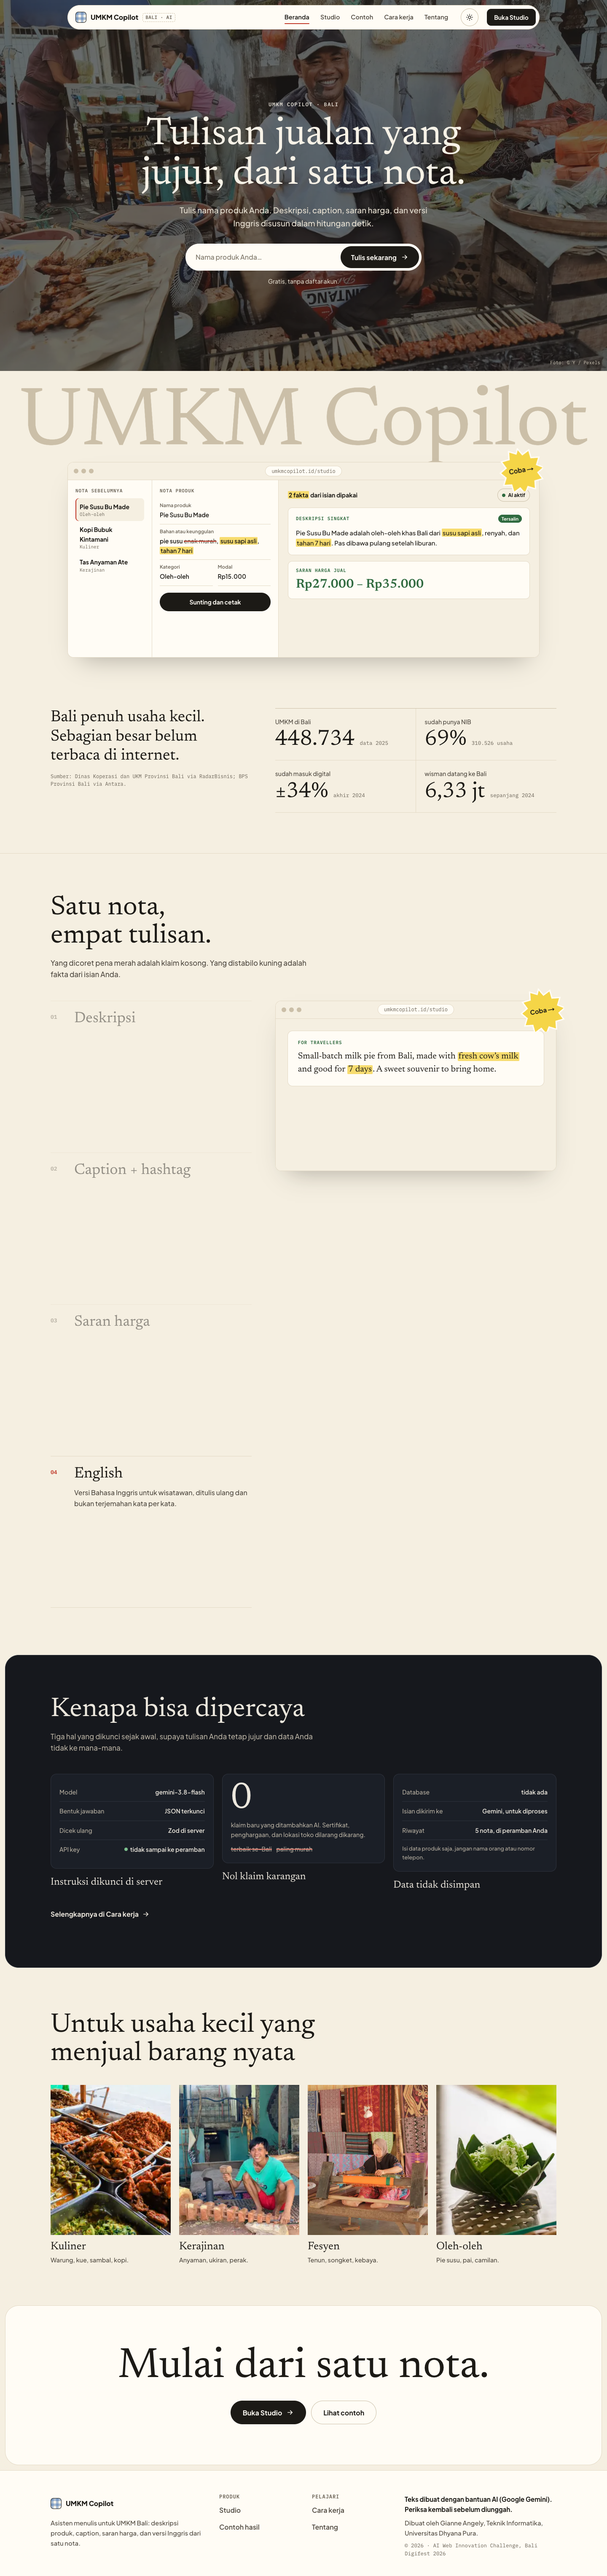
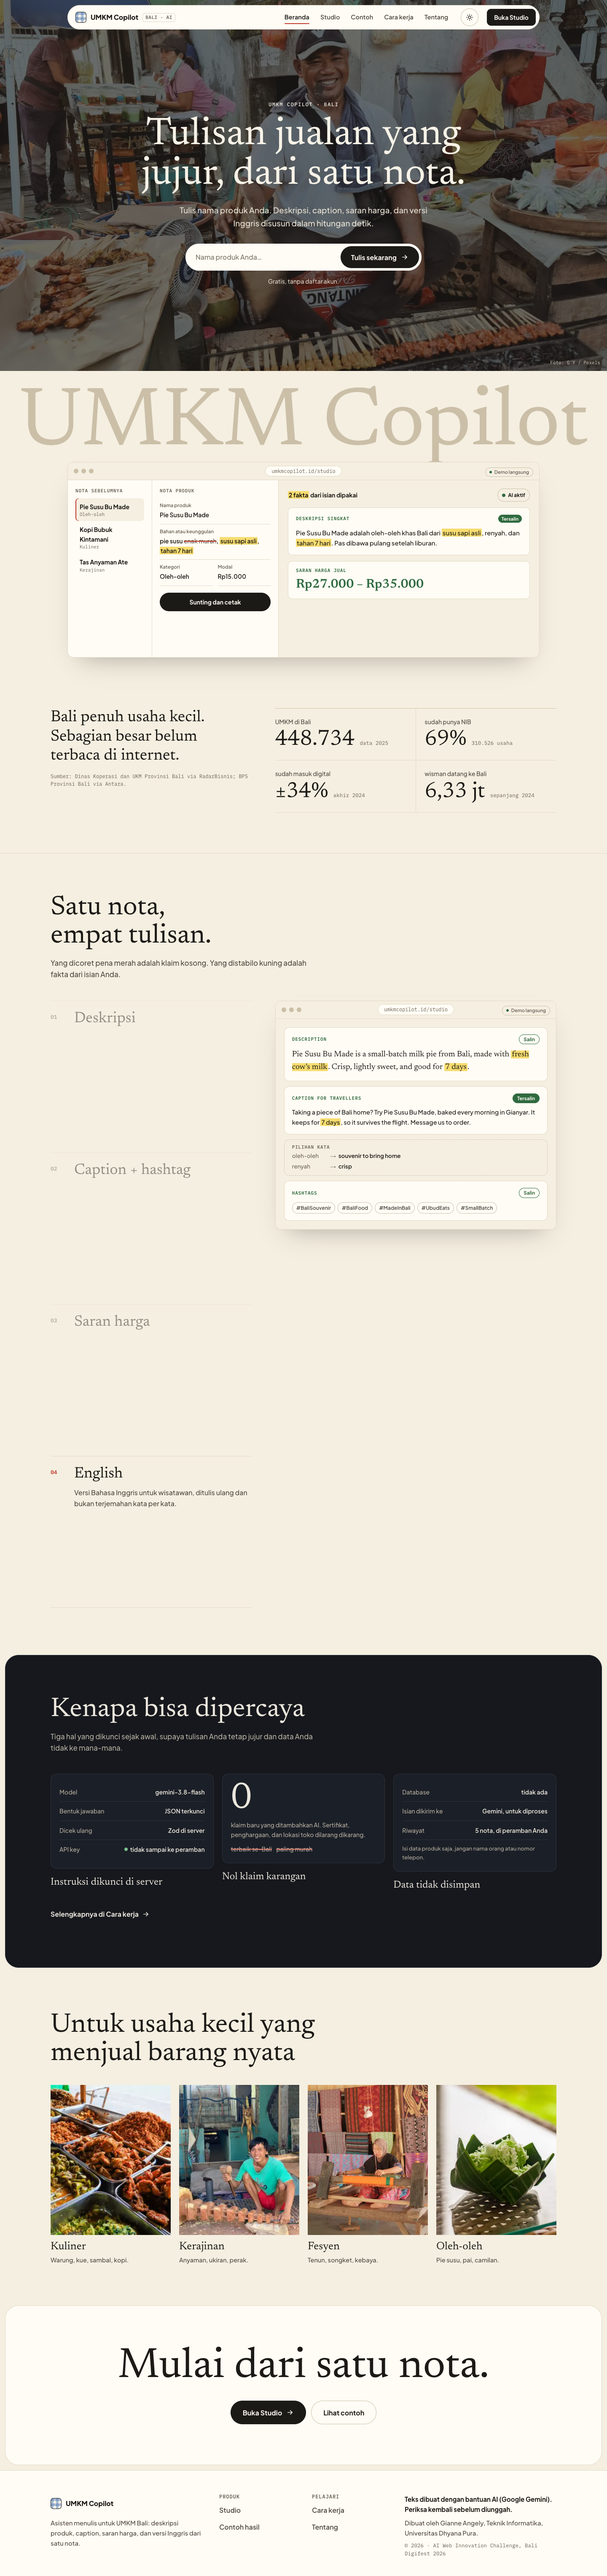
Beranda: buang stiker burst, isi jendela cerita dengan layar hasil utuh
- Stiker Coba dihapus; jendela produk diberi pil kecil Demo langsung di bar judul
- Empat state jendela sticky: dua versi deskripsi, pratinjau postingan Instagram, harga dengan rumus modal x margin dan perbandingan lokal/wisatawan, dua blok English plus pilihan kata dan hashtag
- Tinggi jendela mengikuti state terpanjang sehingga tidak ada area kosong
- Selector daftar cerita dibatasi ke anak langsung supaya chip hashtag di HP tidak ikut bergaya item

Changed region(s): [[0.4688, 0.3731, 0.9375, 0.4975], [0.8125, 0.1555, 0.9062, 0.2176]]

diff --git a/app/globals.css b/app/globals.css
@@ -620,21 +620,17 @@ ul.riwayat .riwayat-nama { width: 100%; }
 .b-pamer-jendela { position: relative; max-width: 1120px; margin: clamp(56px, 10vw, 150px) auto 0; }
 .b-pamer-jendela[data-reveal="siap"] { opacity: 1; transform: scale(0.94) translateY(30px); }
 .b-pamer-jendela[data-reveal="tampil"] { transform: none; transition: transform 0.9s var(--ease); }
-.b-pamer-jendela .stiker { position: absolute; right: -8px; top: -34px; }
 
 .jendela { position: relative; background: var(--putih); border: 1px solid var(--garis); border-radius: 14px; box-shadow: var(--bayang-jendela); overflow: hidden; }
-.jendela-bar { display: grid; grid-template-columns: 80px 1fr 80px; align-items: center; height: 42px; padding: 0 14px; border-bottom: 1px solid var(--garis); background: var(--kertas); }
+.jendela-bar { display: grid; grid-template-columns: 120px 1fr 120px; align-items: center; height: 42px; padding: 0 14px; border-bottom: 1px solid var(--garis); background: var(--kertas); }
 .jendela-titik { display: flex; gap: 7px; }
+.jendela-ruang { justify-self: end; }
+.jendela-demo { display: inline-flex; align-items: center; gap: 6px; padding: 3px 9px; border: 1px solid var(--garis-2); border-radius: 99px; font: 500 11px/1.3 var(--sans); color: var(--tinta-2); white-space: nowrap; }
+.jendela-demo i { width: 6px; height: 6px; border-radius: 50%; background: var(--hijau); }
 .jendela-titik i { width: 11px; height: 11px; border-radius: 50%; background: var(--garis-2); }
 .jendela-alamat { justify-self: center; padding: 4px 14px; border-radius: 99px; background: var(--putih); border: 1px solid var(--garis); font: 500 12px/1.3 var(--mono); color: var(--tinta-3); white-space: nowrap; overflow: hidden; text-overflow: ellipsis; max-width: 100%; }
 .jendela-isi { position: relative; }
 
-.stiker { position: absolute; z-index: 3; display: grid; place-items: center; width: 104px; height: 104px; color: #1c1a16; transform: rotate(-10deg); transition: transform 0.3s var(--ease); }
-.stiker svg { position: absolute; inset: 0; width: 100%; height: 100%; fill: var(--kuning); stroke: #fffcf5; stroke-width: 3; }
-.stiker span { position: relative; font: 700 15px/1 var(--sans); }
-.stiker:hover { transform: rotate(-4deg) scale(1.05); }
-@media (prefers-reduced-motion: no-preference) { .stiker svg { animation: putar 18s linear infinite; } }
-@keyframes putar { to { transform: rotate(360deg); } }
 
 .layar { display: grid; grid-template-columns: 200px 300px minmax(0, 1fr); min-height: 420px; font-size: 14px; }
 .layar-samping, .layar-nota { padding: 20px 18px; border-right: 1px solid var(--garis); }
@@ -679,36 +675,87 @@ ul.riwayat .riwayat-nama { width: 100%; }
 .cerita { margin-top: 48px; display: grid; gap: 40px; align-items: start; }
 @media (min-width: 960px) { .cerita { grid-template-columns: 5fr 7fr; gap: 56px; } }
 .cerita-daftar { list-style: none; margin: 0; padding: 0; }
-.cerita-daftar li { display: grid; grid-template-columns: 44px 1fr; gap: 12px; padding: 22px 0; border-top: 1px solid var(--garis); }
-.cerita-daftar li:last-child { border-bottom: 1px solid var(--garis); }
+.cerita-daftar > li { display: grid; grid-template-columns: 44px 1fr; gap: 12px; padding: 22px 0; border-top: 1px solid var(--garis); }
+.cerita-daftar > li:last-child { border-bottom: 1px solid var(--garis); }
 .cerita-no { font: 600 13px/2.4 var(--mono); color: var(--tinta-3); }
 .cerita-daftar h3 { font: 400 clamp(26px, 2.6vw, 36px)/1.15 var(--serif); }
 .cerita-teks { margin-top: 10px; color: var(--tinta-2); max-width: 30em; }
 .cerita-panel-hp { margin-top: 18px; }
 .cerita-kanan { display: none; }
 @media (min-width: 960px) {
-  .cerita-daftar li { min-height: 40vh; align-content: start; transition: opacity 0.3s; opacity: 0.45; }
-  .cerita-daftar li.aktif { opacity: 1; }
-  .cerita-daftar li.aktif .cerita-no { color: var(--merah); }
-  .cerita-daftar li:not(.aktif) .cerita-teks { visibility: hidden; }
+  .cerita-daftar > li { min-height: 40vh; align-content: start; transition: opacity 0.3s; opacity: 0.45; }
+  .cerita-daftar > li.aktif { opacity: 1; }
+  .cerita-daftar > li.aktif .cerita-no { color: var(--merah); }
+  .cerita-daftar > li:not(.aktif) .cerita-teks { visibility: hidden; }
   .cerita-panel-hp { display: none; }
-  .cerita-kanan { display: block; position: sticky; top: 120px; }
-  .cerita-kanan .stiker { right: -18px; top: -30px; }
+  .cerita-kanan { display: block; position: sticky; top: 104px; }
 }
-.panel-tumpuk { display: grid; padding: 28px; min-height: 360px; background: var(--kertas); }
-.panel-tumpuk .panel { grid-area: 1 / 1; opacity: 0; transform: translateY(10px); transition: opacity 0.4s var(--ease), transform 0.4s var(--ease); }
+.panel-tumpuk { display: grid; padding: 20px; background: var(--kertas); }
+.panel-tumpuk .panel { grid-area: 1 / 1; align-self: stretch; opacity: 0; transform: translateY(10px); transition: opacity 0.4s var(--ease), transform 0.4s var(--ease); }
 .panel-tumpuk .panel.aktif { opacity: 1; transform: none; }
-.panel { padding: 22px 24px; background: var(--putih); border: 1px solid var(--garis); border-radius: 12px; align-self: start; }
-.panel-draf { margin-bottom: 20px; padding-bottom: 18px; border-bottom: 1px dashed var(--garis-2); font-size: 16px; color: var(--tinta-2); }
-.panel-jadi { font: 400 21px/1.5 var(--serif); }
-.panel-jadi.kecil { font-size: 17px; margin-top: 10px; }
-.panel-chip { list-style: none; margin: 16px 0 0; padding: 0; display: flex; flex-wrap: wrap; gap: 6px; }
-.panel-chip li { padding: 3px 10px; border: 1px solid var(--garis-2); border-radius: 99px; font-size: 13px; font-weight: 600; color: var(--tinta-2); }
-.panel-harga { font: 500 clamp(36px, 4vw, 52px)/1.05 var(--serif); color: var(--hijau); font-variant-numeric: tabular-nums; }
-.panel-bar { display: flex; margin-top: 18px; height: 34px; border-radius: 8px; overflow: hidden; font: 600 11px/34px var(--mono); }
-.panel-bar span { width: var(--w); padding-left: 10px; }
-.panel-bar span:first-child { background: var(--garis); color: var(--tinta-2); }
-.panel-bar span:last-child { background: var(--hijau); color: var(--putih); }
+.panel { height: 100%; min-width: 0; }
+.cerita-panel-hp .panel { height: auto; }
+
+/* Isi panel: layar hasil yang utuh */
+.p-layar { display: flex; flex-direction: column; gap: 12px; height: 100%; font-size: 14.5px; }
+.p-blok, .p-draf { padding: 16px 18px; background: var(--putih); border: 1px solid var(--garis); border-radius: 12px; }
+.p-layar > :last-child { flex: 1; }
+.p-draf { background: transparent; border-style: dashed; }
+.p-draf p { margin-top: 8px; color: var(--tinta-2); }
+.p-draf del, .p-layar del { text-decoration-color: var(--merah); text-decoration-thickness: 2px; color: var(--tinta-3); }
+.p-cap { font: 600 11px/1 var(--mono); letter-spacing: 0.08em; color: var(--tinta-3); }
+.p-kepala { display: flex; justify-content: space-between; align-items: center; margin-bottom: 10px; font: 600 11px/1 var(--mono); letter-spacing: 0.08em; color: var(--hijau); }
+.p-salin { padding: 5px 10px; border: 1px solid var(--hijau); border-radius: 99px; font: 700 11.5px/1 var(--sans); letter-spacing: 0; }
+.p-salin.ok { background: var(--hijau); color: var(--putih); }
+.p-serif { font: 400 19px/1.5 var(--serif); }
+.p-layar p { line-height: 1.6; }
+.p-kecil { margin-top: 4px; font-size: 13px; color: var(--tinta-3); }
+.p-meta { margin-top: 10px; font: 500 11.5px/1.4 var(--mono); color: var(--tinta-3); }
+.p-catat { padding: 0 4px; font: 500 12px/1.4 var(--mono); color: var(--tinta-3); }
+
+.p-ig-wrap { flex-direction: row; }
+.p-ig { flex: none; width: 46%; display: flex; flex-direction: column; background: var(--putih); border: 1px solid var(--garis); border-radius: 12px; overflow: hidden; }
+.p-ig-atas { display: flex; align-items: center; gap: 8px; padding: 10px 12px; font-weight: 700; font-size: 13px; }
+.p-ig-atas span { margin-left: auto; font: 500 11px var(--sans); color: var(--tinta-3); }
+.p-avatar { width: 26px; height: 26px; flex: none; border-radius: 50%; background: var(--hijau); box-shadow: 0 0 0 2px var(--putih), 0 0 0 3.5px var(--merah); }
+.p-ig-foto { position: relative; flex: 1; min-height: 0; }
+.p-ig-ikon { display: flex; gap: 10px; padding: 10px 12px; }
+.p-ig-ikon i { width: 18px; height: 18px; border: 1.8px solid var(--tinta-2); border-radius: 50%; }
+.p-ig-ikon i:last-child { margin-left: auto; border-radius: 3px; }
+.p-ig-teks { flex: 1; min-width: 0; display: flex; flex-direction: column; padding: 16px 18px; background: var(--putih); border: 1px solid var(--garis); border-radius: 12px; }
+.p-chip { list-style: none; margin: auto 0 0; padding: 14px 0 0; display: flex; flex-wrap: wrap; gap: 6px; }
+.p-chip li { padding: 3px 9px; border: 1px solid var(--garis-2); border-radius: 99px; font-size: 12px; font-weight: 600; color: var(--tinta-2); }
+
+.p-harga { font: 500 clamp(38px, 3.6vw, 52px)/1.05 var(--serif); color: var(--hijau); font-variant-numeric: tabular-nums; }
+.p-rumus { display: grid; grid-template-columns: 1fr auto 1fr auto 1.3fr; align-items: center; gap: 10px; padding: 14px 18px; background: var(--putih); border: 1px solid var(--garis); border-radius: 12px; }
+.p-rumus div { display: flex; flex-direction: column; gap: 6px; }
+.p-rumus b { font: 600 17px/1.2 var(--sans); font-variant-numeric: tabular-nums; white-space: nowrap; }
+.p-rumus b.hijau { color: var(--hijau); }
+.p-op { font: 400 24px/1 var(--serif); color: var(--tinta-3); }
+.p-chip-rapat { margin-top: 0; padding-top: 0; }
+.p-istilah { display: grid; gap: 6px; padding: 12px 18px; border: 1px dashed var(--garis-2); border-radius: 12px; }
+.p-istilah p { display: grid; grid-template-columns: 90px 20px 1fr; font-size: 13.5px; line-height: 1.4 !important; }
+.p-istilah span { color: var(--tinta-3); }
+.p-istilah i { font-style: normal; color: var(--tinta-3); }
+.p-istilah b { font-weight: 600; }
+.p-banding { display: grid; gap: 8px; padding: 14px 18px; background: var(--putih); border: 1px solid var(--garis); border-radius: 12px; }
+.p-banding p { display: grid; grid-template-columns: 104px 1fr 112px; align-items: center; gap: 12px; font-size: 13px; color: var(--tinta-3); line-height: 1.3 !important; }
+.p-banding i { position: relative; height: 8px; border-radius: 4px; background: var(--garis); }
+.p-banding i::after { content: ""; position: absolute; top: 0; bottom: 0; left: var(--a); right: calc(100% - var(--b)); border-radius: 4px; background: var(--tinta-3); }
+.p-banding b { text-align: right; font-weight: 600; font-variant-numeric: tabular-nums; }
+.p-banding .pilih { color: var(--tinta); }
+.p-banding .pilih i::after { background: var(--hijau); }
+.p-banding .pilih b { color: var(--hijau); }
+
+@media (max-width: 959px) {
+  .p-ig-wrap { flex-direction: column; }
+  .p-ig { width: 100%; }
+  .p-ig-foto { aspect-ratio: 4 / 3; flex: none; }
+  .p-rumus { grid-template-columns: 1fr auto 1fr; }
+  .p-rumus .p-op:nth-of-type(2), .p-rumus div:last-child { grid-column: 1 / -1; }
+  .p-rumus .p-op:nth-of-type(2) { display: none; }
+  .p-rumus div:last-child { padding-top: 10px; border-top: 1px dashed var(--garis-2); }
+}
 
 /* ---------- Bagian gelap (Mercury) ---------- */
 .b-gelap { margin: 0 12px; padding: 96px 0 104px; border-radius: 32px; background: var(--pekat); color: var(--pekat-teks); border: 1px solid var(--pekat-garis); }

diff --git a/app/components/CeritaSticky.js b/app/components/CeritaSticky.js
@@ -1,55 +1,121 @@
 "use client";
 
+import Image from "next/image";
 import { useEffect, useRef, useState } from "react";
-import { Jendela, Stiker } from "./Jendela";
+import { Jendela } from "./Jendela";
 
 // Kiri: daftar bernomor yang aktif mengikuti gulir. Kanan: jendela produk yang menempel
 // dan isinya berganti sesuai item aktif. Di HP, panel tampil di bawah tiap item.
+// Tiap panel adalah layar hasil yang utuh, dengan coretan merah dan stabilo dari isian.
+
+function Kepala({ judul, salin = "Salin" }) {
+  return (
+    <div className="p-kepala">
+      <span>{judul}</span>
+      <span className={salin === "Tersalin" ? "p-salin ok" : "p-salin"}>{salin}</span>
+    </div>
+  );
+}
 
 const ITEM = [
   {
     judul: "Deskripsi",
     teks: "Dua versi: singkat untuk marketplace, bercerita untuk Instagram. Klaim kosong dicoret pena merah.",
     panel: (
-      <>
-        <p className="layar-label">DRAF ANDA</p>
-        <p className="panel-draf">pie susu <del>enak murah</del>, <mark>susu sapi asli</mark>, <mark>tahan 7 hari</mark>, <del>pokoknya mantap</del></p>
-        <p className="layar-label hijau">DESKRIPSI SINGKAT</p>
-        <p className="panel-jadi">Pie Susu Bu Made adalah oleh-oleh khas Bali dari <mark>susu sapi asli</mark>, renyah, dan <mark>tahan 7 hari</mark>.</p>
-      </>
+      <div className="p-layar">
+        <div className="p-draf">
+          <span className="p-cap">DRAF ANDA</span>
+          <p>pie susu <del>enak murah</del>, <mark>susu sapi asli</mark>, <mark>tahan 7 hari</mark>, <del>pokoknya mantap</del></p>
+        </div>
+        <div className="p-blok">
+          <Kepala judul="DESKRIPSI SINGKAT" salin="Tersalin" />
+          <p className="p-serif">Pie Susu Bu Made adalah oleh-oleh khas Bali dari <mark>susu sapi asli</mark>, renyah, dan <mark>tahan 7 hari</mark>.</p>
+          <p className="p-meta">17 kata · pas untuk kolom deskripsi marketplace</p>
+        </div>
+        <div className="p-blok">
+          <Kepala judul="DESKRIPSI BERCERITA" />
+          <p>Setiap pagi di dapur kecil di Gianyar, Pie Susu Bu Made dipanggang sedikit demi sedikit. Adonannya memakai <mark>susu sapi asli</mark>, jadi rasanya lembut tanpa terlalu manis. Kulitnya renyah dan <mark>tahan 7 hari</mark>, cukup untuk dibawa pulang ke rumah. Satu kotak pas untuk dibagi bersama keluarga.</p>
+          <p className="p-meta">45 kata · untuk caption panjang atau halaman toko</p>
+        </div>
+      </div>
     ),
   },
   {
     judul: "Caption + hashtag",
     teks: "Siap tempel di Instagram atau WhatsApp, dengan 8 sampai 12 hashtag khas Bali.",
     panel: (
-      <>
-        <p className="layar-label hijau">CAPTION</p>
-        <p className="panel-jadi">Lagi cari oleh-oleh yang beda? Pie Susu Bu Made dari <mark>susu sapi asli</mark>, <mark>tahan 7 hari</mark> di koper. Pesan lewat DM ya.</p>
-        <ul className="panel-chip"><li>#OlehOlehBali</li><li>#PieSusuBali</li><li>#ProdukLokalBali</li><li>#UMKMBali</li><li>#Gianyar</li></ul>
-      </>
+      <div className="p-layar p-ig-wrap">
+        <div className="p-ig">
+          <div className="p-ig-atas"><i className="p-avatar" />piesusubumade<span>Gianyar, Bali</span></div>
+          <div className="p-ig-foto">
+            <Image src="/foto/oleh-oleh.jpg" alt="" fill sizes="240px" style={{ objectFit: "cover", objectPosition: "50% 45%" }} />
+          </div>
+          <div className="p-ig-ikon" aria-hidden="true"><i /><i /><i /></div>
+        </div>
+        <div className="p-ig-teks">
+          <Kepala judul="CAPTION" salin="Tersalin" />
+          <p><b>piesusubumade</b> Lagi cari oleh-oleh yang beda? Pie Susu Bu Made dibuat dari <mark>susu sapi asli</mark> dan <mark>tahan 7 hari</mark> di koper. Pesan lewat DM ya, kami siapkan hari ini juga.</p>
+          <ul className="p-chip">
+            <li>#OlehOlehBali</li><li>#PieSusuBali</li><li>#ProdukLokalBali</li><li>#UMKMBali</li>
+            <li>#Gianyar</li><li>#BaliTrip</li><li>#JajananBali</li><li>#BanggaBuatanIndonesia</li>
+          </ul>
+        </div>
+      </div>
     ),
   },
   {
     judul: "Saran harga",
     teks: "Rentang harga jual dihitung dari modal dan target pembeli, lengkap dengan alasannya.",
     panel: (
-      <>
-        <p className="layar-label hijau">SARAN HARGA JUAL</p>
-        <p className="panel-harga">Rp27.000 – Rp35.000</p>
-        <p className="panel-jadi kecil">Dengan modal <mark>Rp15.000</mark>, margin 80–130% masih wajar untuk pasar wisatawan.</p>
-        <div className="panel-bar" aria-hidden="true"><span style={{ "--w": "43%" }}>modal</span><span style={{ "--w": "57%" }}>margin</span></div>
-      </>
+      <div className="p-layar">
+        <div className="p-blok">
+          <Kepala judul="SARAN HARGA JUAL" />
+          <p className="p-harga">Rp27.000 – Rp35.000</p>
+          <p className="p-kecil">per kotak, untuk pembeli wisatawan</p>
+        </div>
+        <div className="p-rumus" aria-label="Modal Rp15.000 dikali margin 1,8 sampai 2,3">
+          <div><span className="p-cap">MODAL</span><b><mark>Rp15.000</mark></b></div>
+          <span className="p-op">×</span>
+          <div><span className="p-cap">MARGIN</span><b>1,8 – 2,3</b></div>
+          <span className="p-op">=</span>
+          <div><span className="p-cap">HARGA JUAL</span><b className="hijau">Rp27rb – 35rb</b></div>
+        </div>
+        <div className="p-banding" aria-label="Perbandingan rentang harga untuk pembeli lokal dan wisatawan">
+          <p><span>Pembeli lokal</span><i style={{ "--a": "0%", "--b": "38%" }} /><b>Rp21rb – 26rb</b></p>
+          <p className="pilih"><span>Wisatawan</span><i style={{ "--a": "36%", "--b": "100%" }} /><b>Rp27rb – 35rb</b></p>
+        </div>
+        <div className="p-blok">
+          <span className="p-cap">ALASAN</span>
+          <p>Dengan modal <mark>Rp15.000</mark>, margin 80–130% masih wajar untuk pasar wisatawan yang biasanya membeli di toko oleh-oleh atau area wisata.</p>
+        </div>
+      </div>
     ),
   },
   {
     judul: "English",
     teks: "Versi Bahasa Inggris untuk wisatawan, ditulis ulang dan bukan terjemahan kata per kata.",
     panel: (
-      <>
-        <p className="layar-label hijau">FOR TRAVELLERS</p>
-        <p className="panel-jadi" lang="en">Small-batch milk pie from Bali, made with <mark>fresh cow&rsquo;s milk</mark> and good for <mark>7 days</mark>. A sweet souvenir to bring home.</p>
-      </>
+      <div className="p-layar">
+        <div className="p-blok">
+          <Kepala judul="DESCRIPTION" />
+          <p className="p-serif" lang="en">Pie Susu Bu Made is a small-batch milk pie from Bali, made with <mark>fresh cow&rsquo;s milk</mark>. Crisp, lightly sweet, and good for <mark>7 days</mark>.</p>
+        </div>
+        <div className="p-blok">
+          <Kepala judul="CAPTION FOR TRAVELLERS" salin="Tersalin" />
+          <p lang="en">Taking a piece of Bali home? Try Pie Susu Bu Made, baked every morning in Gianyar. It keeps for <mark>7 days</mark>, so it survives the flight. Message us to order.</p>
+        </div>
+        <div className="p-istilah">
+          <span className="p-cap">PILIHAN KATA</span>
+          <p><span>oleh-oleh</span><i>→</i><b lang="en">souvenir to bring home</b></p>
+          <p><span>renyah</span><i>→</i><b lang="en">crisp</b></p>
+        </div>
+        <div className="p-blok">
+          <Kepala judul="HASHTAGS" />
+          <ul className="p-chip p-chip-rapat">
+            <li>#BaliSouvenir</li><li>#BaliFood</li><li>#MadeInBali</li><li>#UbudEats</li><li>#SmallBatch</li>
+          </ul>
+        </div>
+      </div>
     ),
   },
 ];
@@ -76,20 +142,19 @@ export default function CeritaSticky() {
             <div>
               <h3>{it.judul}</h3>
               <p className="cerita-teks">{it.teks}</p>
-              <div className="cerita-panel-hp"><div className="panel">{it.panel}</div></div>
+              <div className="cerita-panel-hp" aria-hidden="true"><div className="panel">{it.panel}</div></div>
             </div>
           </li>
         ))}
       </ol>
       <div className="cerita-kanan">
-        <Jendela alamat="umkmcopilot.id/studio" className="jendela-cerita">
+        <Jendela alamat="umkmcopilot.id/studio" demo className="jendela-cerita">
           <div className="panel-tumpuk">
             {ITEM.map((it, i) => (
-              <div key={it.judul} className={`panel${i === aktif ? " aktif" : ""}`}>{it.panel}</div>
+              <div key={it.judul} className={`panel${i === aktif ? " aktif" : ""}`} data-panel={i}>{it.panel}</div>
             ))}
           </div>
         </Jendela>
-        <Stiker />
       </div>
     </div>
   );

diff --git a/app/components/Jendela.js b/app/components/Jendela.js
@@ -1,27 +1,16 @@
 // Bingkai jendela aplikasi (ala peramban) untuk memamerkan layar Studio.
 // Isinya markup statis yang memakai komponen visual yang sama dengan Studio.
 
-export function Jendela({ alamat = "umkmcopilot.id/studio", className = "", children }) {
+export function Jendela({ alamat = "umkmcopilot.id/studio", demo = false, className = "", children }) {
   return (
     <div className={`jendela ${className}`} aria-hidden={className.includes("jendela-cerita") || undefined}>
       <div className="jendela-bar" aria-hidden="true">
         <span className="jendela-titik"><i /><i /><i /></span>
         <span className="jendela-alamat">{alamat}</span>
-        <span className="jendela-ruang" />
+        <span className="jendela-ruang">{demo && <span className="jendela-demo"><i />Demo langsung</span>}</span>
       </div>
       <div className="jendela-isi">{children}</div>
     </div>
-  );
-}
-
-export function Stiker({ href = "/studio", children = "Coba" }) {
-  return (
-    <a className="stiker" href={href}>
-      <svg viewBox="0 0 100 100" aria-hidden="true">
-        <path d="M50 2l9 15 16-8 2 18 18 2-8 16 15 9-15 9 8 16-18 2-2 18-16-8-9 15-9-15-16 8-2-18-18-2 8-16L2 50l15-9-8-16 18-2 2-18 16 8z" />
-      </svg>
-      <span>{children} →</span>
-    </a>
   );
 }
 

diff --git a/app/page.js b/app/page.js
@@ -3,7 +3,7 @@ import Link from "next/link";
 import CeritaSticky from "./components/CeritaSticky";
 import FotoSlot from "./components/FotoSlot";
 import Icon from "./components/Icon";
-import { Jendela, LayarStudio, Stiker } from "./components/Jendela";
+import { Jendela, LayarStudio } from "./components/Jendela";
 import Reveal from "./components/Reveal";
 
 const ANGKA = [
@@ -78,10 +78,9 @@ export default function Beranda() {
       <section className="b-pamer" aria-label="Tampilan Studio">
         <p className="b-merek" aria-hidden="true">UMKM Copilot</p>
         <Reveal className="b-pamer-jendela">
-          <Jendela>
+          <Jendela demo>
             <LayarStudio />
           </Jendela>
-          <Stiker />
         </Reveal>
       </section>
 
